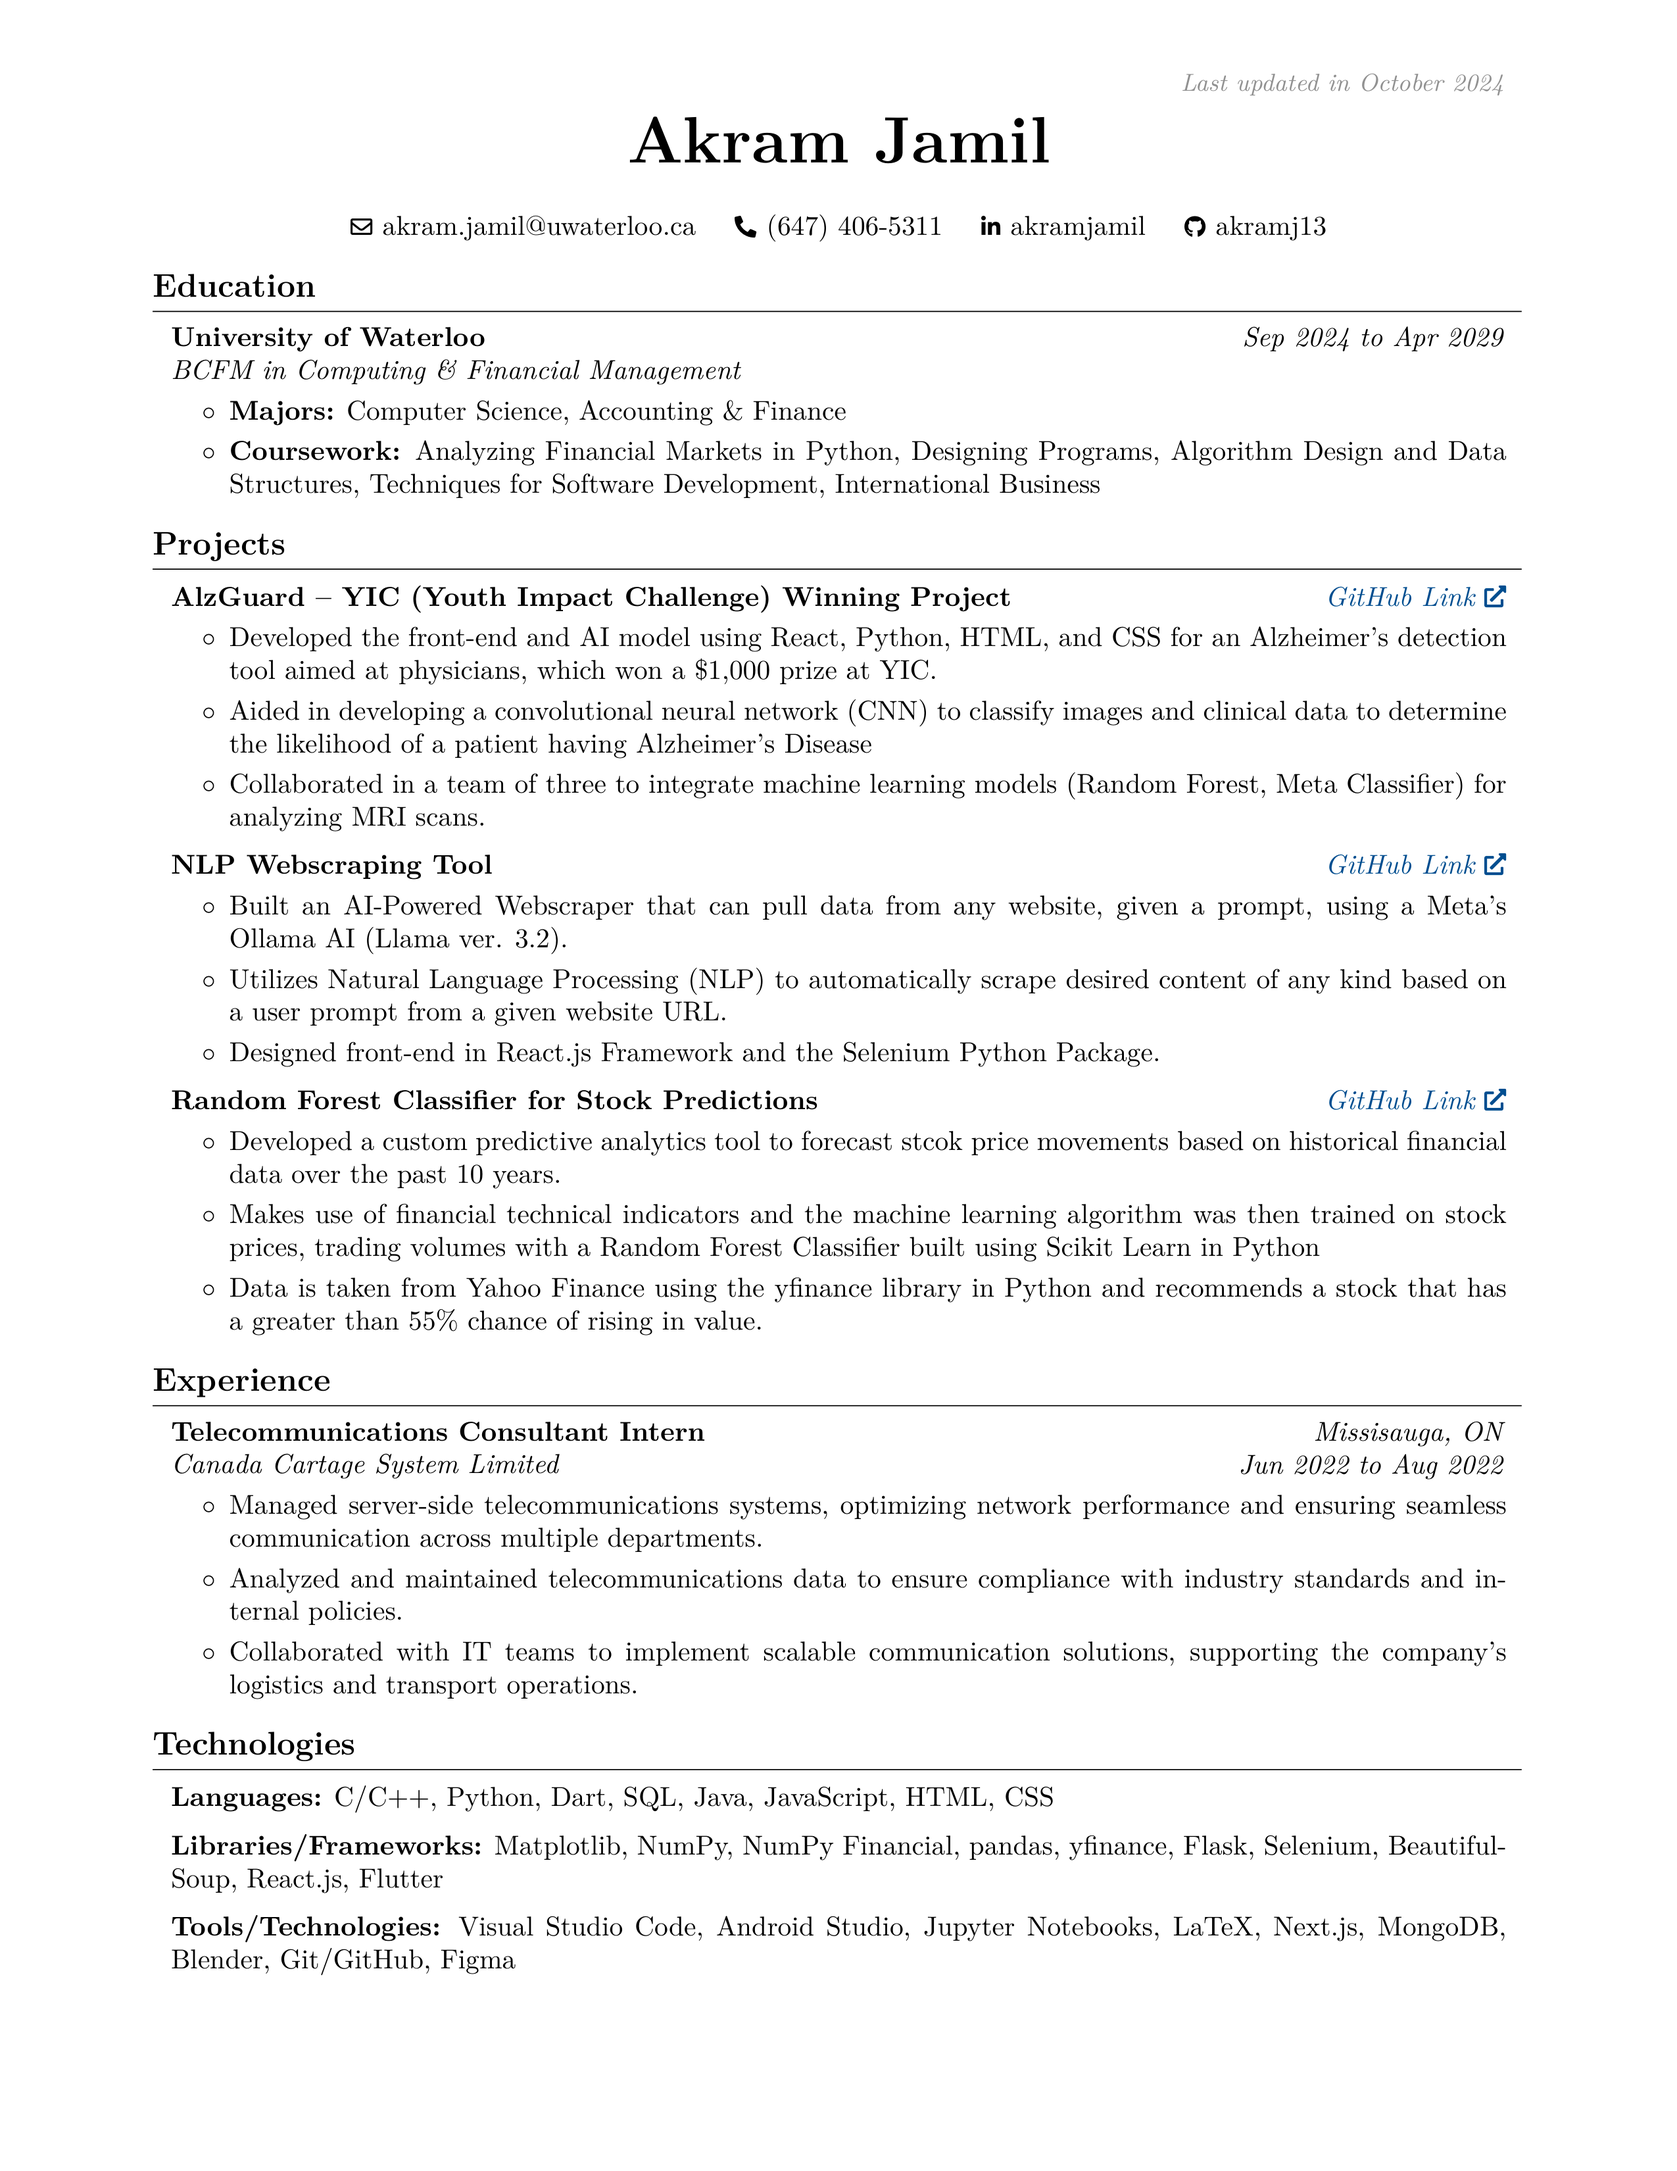
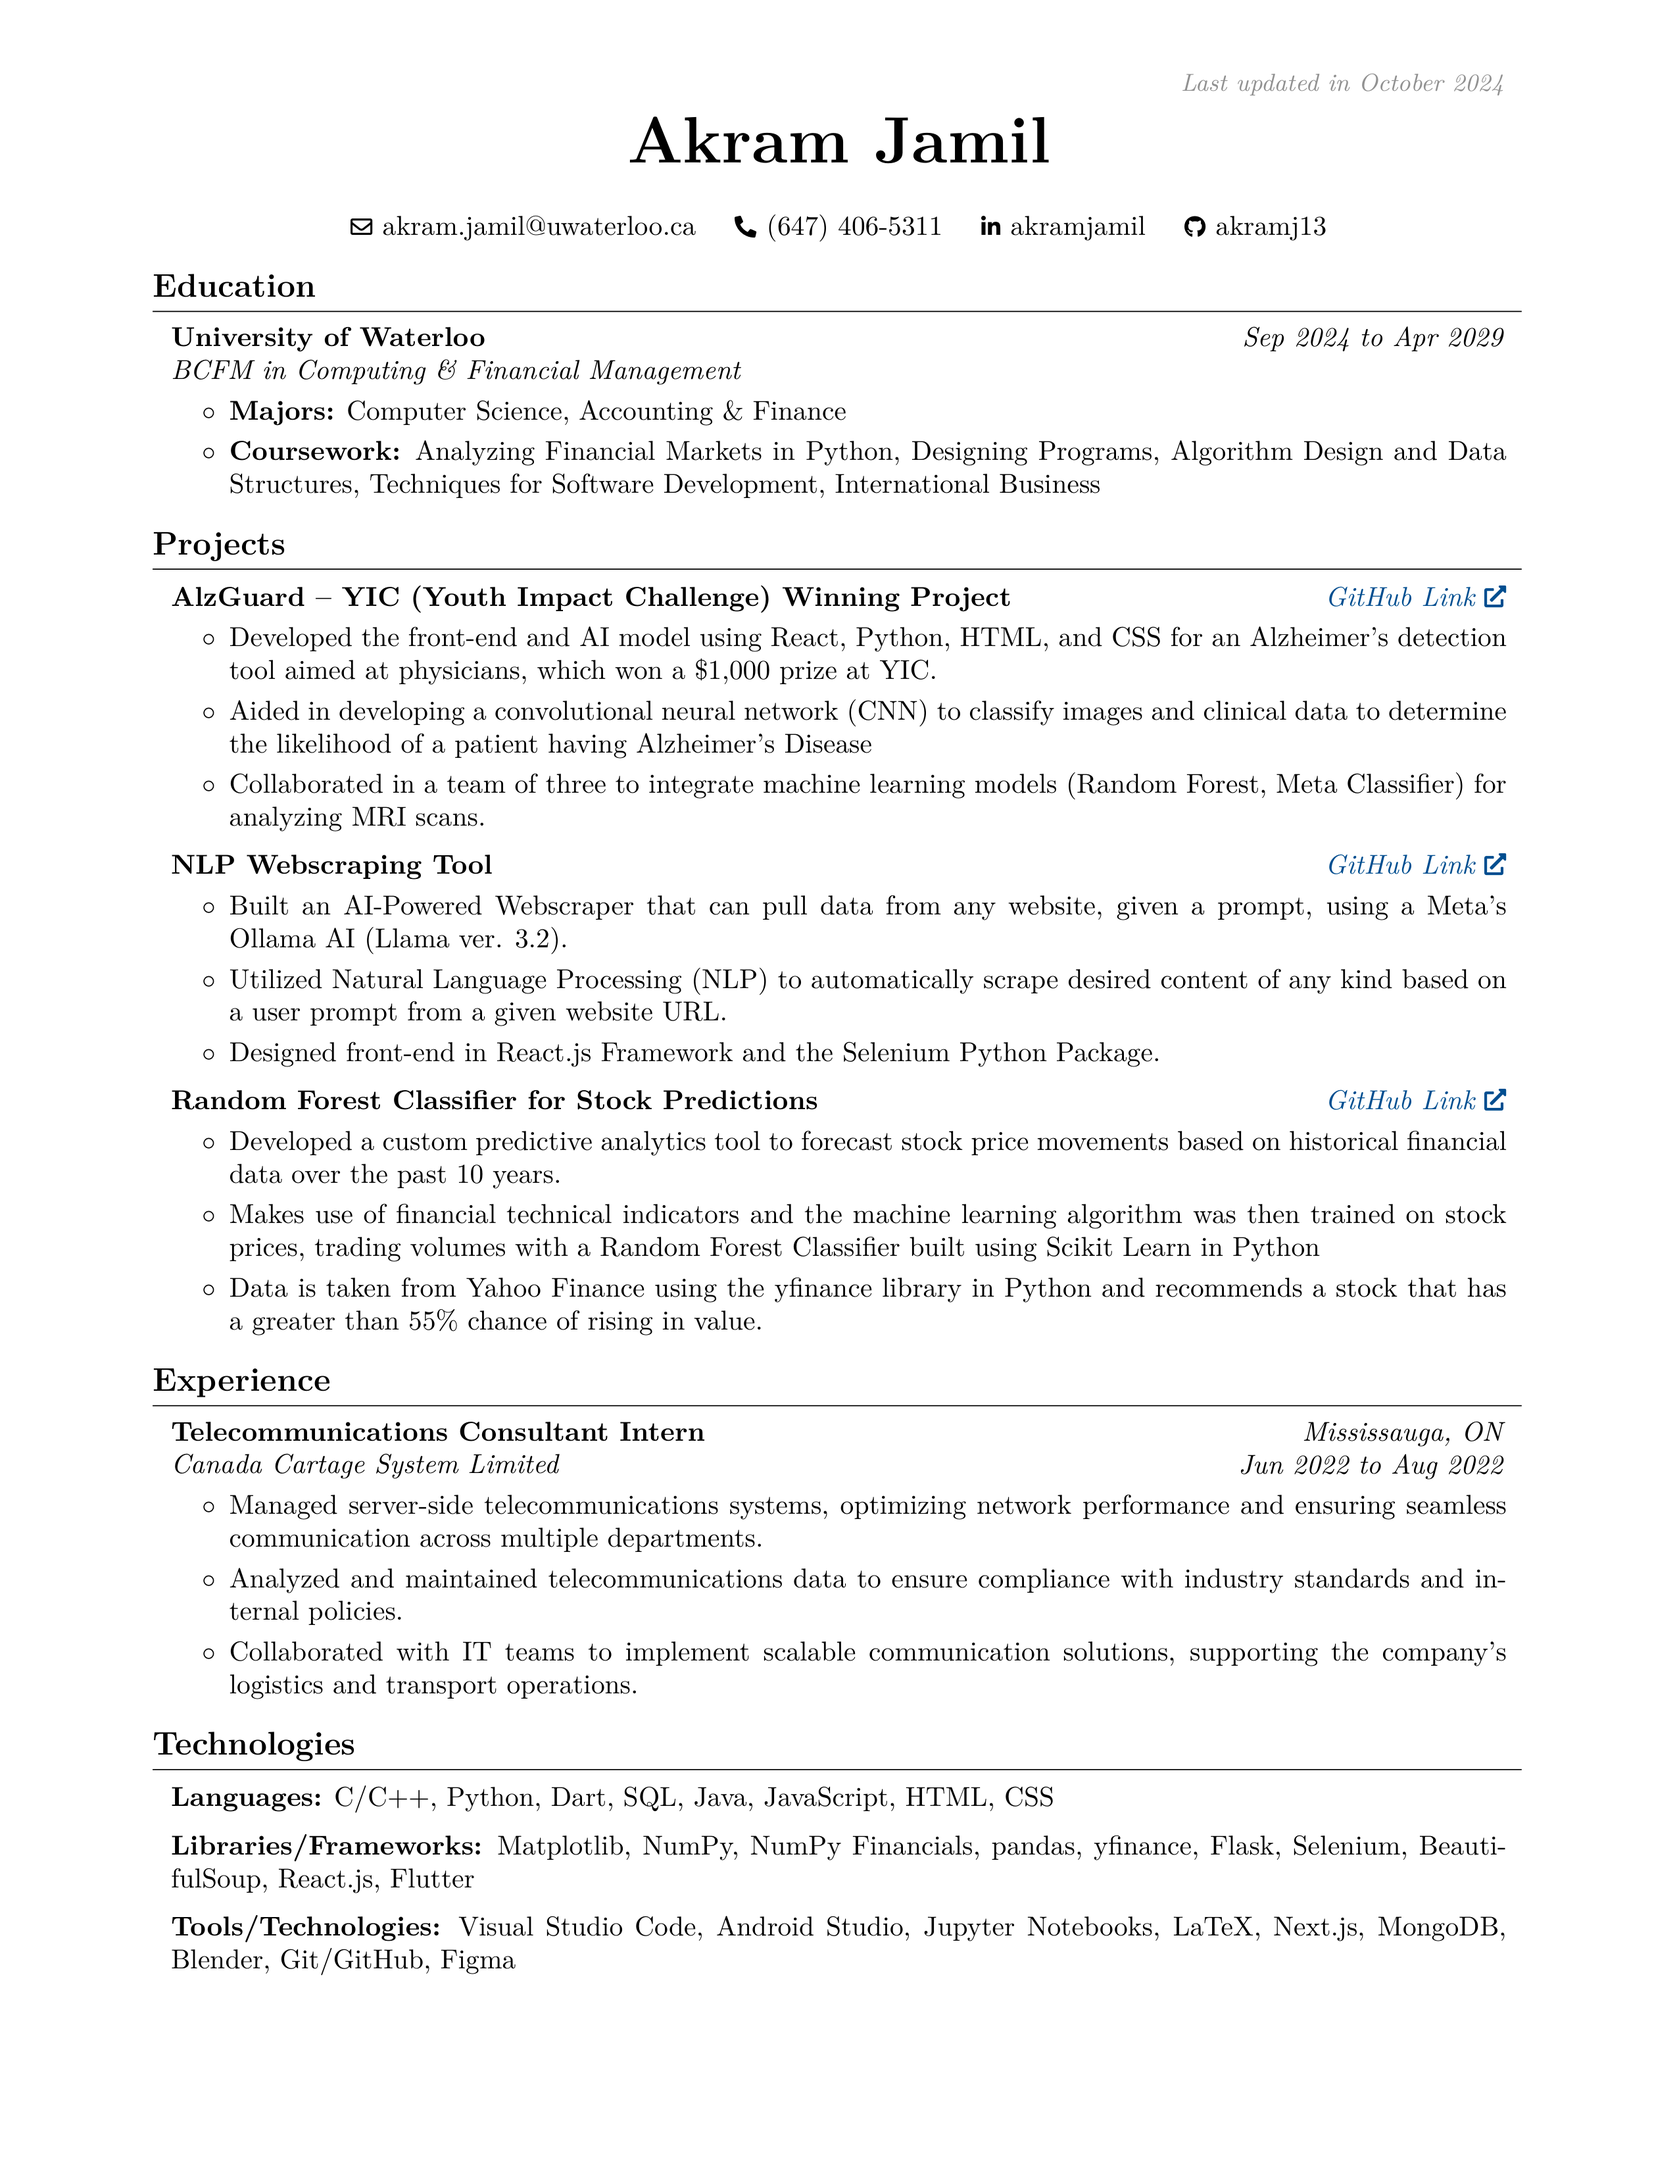
corrections

diff --git a/files/rendercv_output/Akram_Jamil_CV.html b/files/rendercv_output/Akram_Jamil_CV.html
@@ -57,13 +57,13 @@
         <ul>
         <li><a href="https://github.com/akramj13/ai-webscrape">GitHub Link</a></li>
         <li>Built an AI-Powered Webscraper that can pull data from any website, given a prompt, using a Meta's Ollama AI (Llama ver. 3.2).</li>
-        <li>Utilizes Natural Language Processing (NLP) to automatically scrape desired content of any kind based on a user prompt from a given website URL.</li>
+        <li>Utilized Natural Language Processing (NLP) to automatically scrape desired content of any kind based on a user prompt from a given website URL.</li>
         <li>Designed front-end in React.js Framework and the Selenium Python Package.</li>
         </ul>
         <h2>Random Forest Classifier for Stock Predictions</h2>
         <ul>
         <li><a href="https://github.com/akramj13/ai-stock-predictor">GitHub Link</a></li>
-        <li>Developed a custom predictive analytics tool to forecast stcok price movements based on historical financial data over the past 10 years.</li>
+        <li>Developed a custom predictive analytics tool to forecast stock price movements based on historical financial data over the past 10 years.</li>
         <li>Makes use of financial technical indicators and the machine learning algorithm was then trained on stock prices, trading volumes with a Random Forest Classifier built using Scikit Learn in Python</li>
         <li>Data is taken from Yahoo Finance using the yfinance library in Python and recommends a stock that has a greater than 55% chance of rising in value.</li>
         </ul>
@@ -71,7 +71,7 @@
         <h2>Canada Cartage System Limited, Telecommunications Consultant Intern</h2>
         <ul>
         <li>Jun 2022 to Aug 2022</li>
-        <li>Missisauga, ON</li>
+        <li>Mississauga, ON</li>
         <li>Managed server-side telecommunications systems, optimizing network performance and ensuring seamless communication across multiple departments.</li>
         <li>Analyzed and maintained telecommunications data to ensure compliance with industry standards and internal policies.</li>
         <li>Collaborated with IT teams to implement scalable communication solutions, supporting the company's logistics and transport operations.</li>
@@ -79,7 +79,7 @@
         <h1>Technologies</h1>
         <ul>
         <li>Languages: C/C++, Python, Dart, SQL, Java, JavaScript, HTML, CSS</li>
-        <li>Libraries/Frameworks: Matplotlib, NumPy, NumPy Financial, pandas, yfinance, Flask, Selenium, BeautifulSoup, React.js, Flutter</li>
+        <li>Libraries/Frameworks: Matplotlib, NumPy, NumPy Financials, pandas, yfinance, Flask, Selenium, BeautifulSoup, React.js, Flutter</li>
         <li>Tools/Technologies: Visual Studio Code, Android Studio, Jupyter Notebooks, LaTeX, Next.js, MongoDB, Blender, Git/GitHub, Figma</li>
         </ul>
     </article>

diff --git a/files/rendercv_output/Akram_Jamil_CV.tex b/files/rendercv_output/Akram_Jamil_CV.tex
@@ -232,7 +232,7 @@
         \begin{onecolentry}
             \begin{highlights}
                 \item Built an AI-Powered Webscraper that can pull data from any website, given a prompt, using a Meta's Ollama AI (Llama ver. 3.2).
-                \item Utilizes Natural Language Processing (NLP) to automatically scrape desired content of any kind based on a user prompt from a given website URL.
+                \item Utilized Natural Language Processing (NLP) to automatically scrape desired content of any kind based on a user prompt from a given website URL.
                 \item Designed front-end in React.js Framework and the Selenium Python Package.
             \end{highlights}
         \end{onecolentry}
@@ -250,7 +250,7 @@
         \vspace{0.10 cm}
         \begin{onecolentry}
             \begin{highlights}
-                \item Developed a custom predictive analytics tool to forecast stcok price movements based on historical financial data over the past 10 years.
+                \item Developed a custom predictive analytics tool to forecast stock price movements based on historical financial data over the past 10 years.
                 \item Makes use of financial technical indicators and the machine learning algorithm was then trained on stock prices, trading volumes with a Random Forest Classifier built using Scikit Learn in Python
                 \item Data is taken from Yahoo Finance using the yfinance library in Python and recommends a stock that has a greater than 55\% chance of rising in value.
             \end{highlights}
@@ -265,7 +265,7 @@
 
         
         \begin{twocolentry}{
-        \textit{Missisauga, ON}    
+        \textit{Mississauga, ON}    
             
         \textit{Jun 2022 to Aug 2022}}
             \textbf{Telecommunications Consultant Intern}
@@ -297,7 +297,7 @@
         \vspace{0.2 cm}
 
         \begin{onecolentry}
-            \textbf{Libraries/Frameworks:} Matplotlib, NumPy, NumPy Financial, pandas, yfinance, Flask, Selenium, BeautifulSoup, React.js, Flutter
+            \textbf{Libraries/Frameworks:} Matplotlib, NumPy, NumPy Financials, pandas, yfinance, Flask, Selenium, BeautifulSoup, React.js, Flutter
         \end{onecolentry}
 
         \vspace{0.2 cm}

diff --git a/files/rendercv_output/Akram_Jamil_CV.md b/files/rendercv_output/Akram_Jamil_CV.md
@@ -27,13 +27,13 @@
 
 - [GitHub Link](https://github.com/akramj13/ai-webscrape)
 - Built an AI-Powered Webscraper that can pull data from any website, given a prompt, using a Meta's Ollama AI (Llama ver. 3.2).
-- Utilizes Natural Language Processing (NLP) to automatically scrape desired content of any kind based on a user prompt from a given website URL.
+- Utilized Natural Language Processing (NLP) to automatically scrape desired content of any kind based on a user prompt from a given website URL.
 - Designed front-end in React.js Framework and the Selenium Python Package.
 
 ## Random Forest Classifier for Stock Predictions
 
 - [GitHub Link](https://github.com/akramj13/ai-stock-predictor)
-- Developed a custom predictive analytics tool to forecast stcok price movements based on historical financial data over the past 10 years.
+- Developed a custom predictive analytics tool to forecast stock price movements based on historical financial data over the past 10 years.
 - Makes use of financial technical indicators and the machine learning algorithm was then trained on stock prices, trading volumes with a Random Forest Classifier built using Scikit Learn in Python
 - Data is taken from Yahoo Finance using the yfinance library in Python and recommends a stock that has a greater than 55% chance of rising in value.
 
@@ -42,7 +42,7 @@
 ## Canada Cartage System Limited, Telecommunications Consultant Intern
 
 - Jun 2022 to Aug 2022
-- Missisauga, ON
+- Mississauga, ON
 - Managed server-side telecommunications systems, optimizing network performance and ensuring seamless communication across multiple departments.
 - Analyzed and maintained telecommunications data to ensure compliance with industry standards and internal policies.
 - Collaborated with IT teams to implement scalable communication solutions, supporting the company's logistics and transport operations.
@@ -50,5 +50,5 @@
 # Technologies
 
 - Languages: C/C++, Python, Dart, SQL, Java, JavaScript, HTML, CSS
-- Libraries/Frameworks: Matplotlib, NumPy, NumPy Financial, pandas, yfinance, Flask, Selenium, BeautifulSoup, React.js, Flutter
+- Libraries/Frameworks: Matplotlib, NumPy, NumPy Financials, pandas, yfinance, Flask, Selenium, BeautifulSoup, React.js, Flutter
 - Tools/Technologies: Visual Studio Code, Android Studio, Jupyter Notebooks, LaTeX, Next.js, MongoDB, Blender, Git/GitHub, Figma
